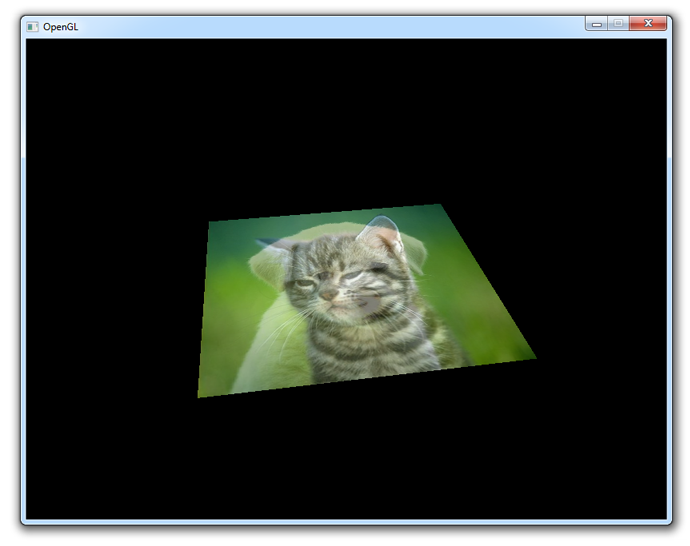
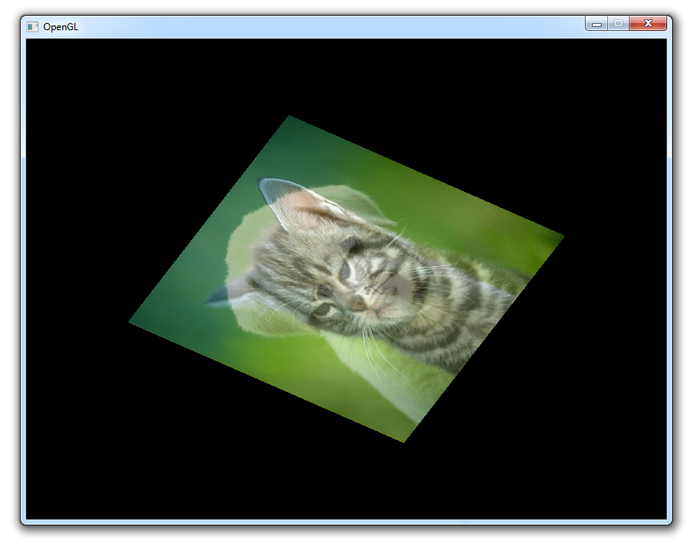
Replaced WebGL placeholder with image for now.

Changed region(s): [[0.1826, 0.2179, 0.8217, 0.8095]]

diff --git a/content/transformations.md b/content/transformations.md
@@ -263,7 +263,7 @@ To spice things up a bit, you could change the rotation with time:
 
 This will result into something like this:
 
-> INSERT FLASHY WEBGL DEMO
+<img src="media/img/c4_window2.png" alt="" />
 
 You can find the full code [here](content/code/c4_transformation.txt) if you have any issues.
 
@@ -320,7 +320,7 @@ Now piecing it all together, the vertex shader looks something like this:
 
 Notice that I've renamed the matrix previously known as `trans` to `model` and it is still updated every frame.
 
-<img src="media/img/c4_window2.png" alt="" />
+<img src="media/img/c4_window3.png" alt="" />
 
 Success! You can find the full code [here](content/code/c4_3d.txt) if you get stuck.
 
